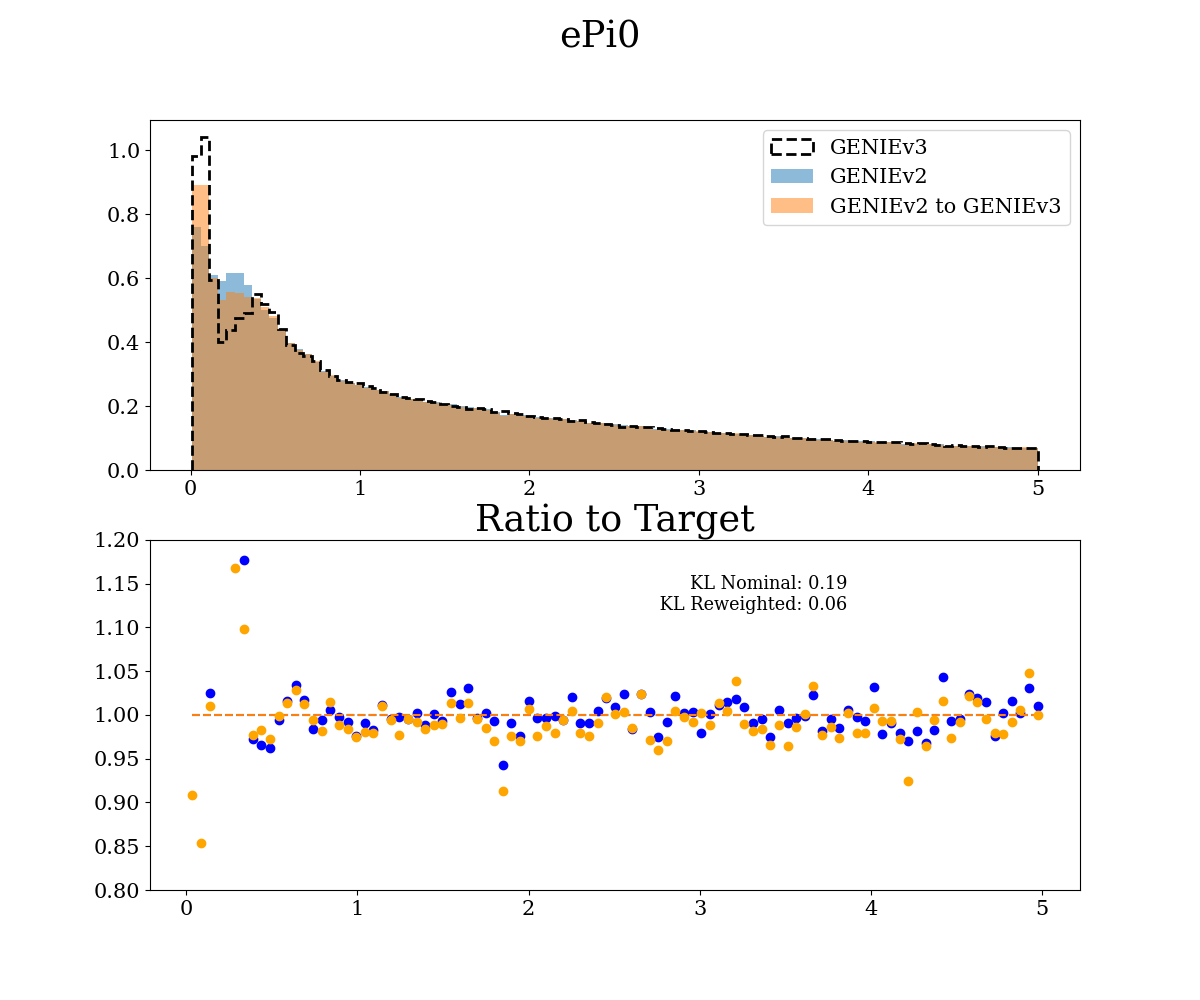
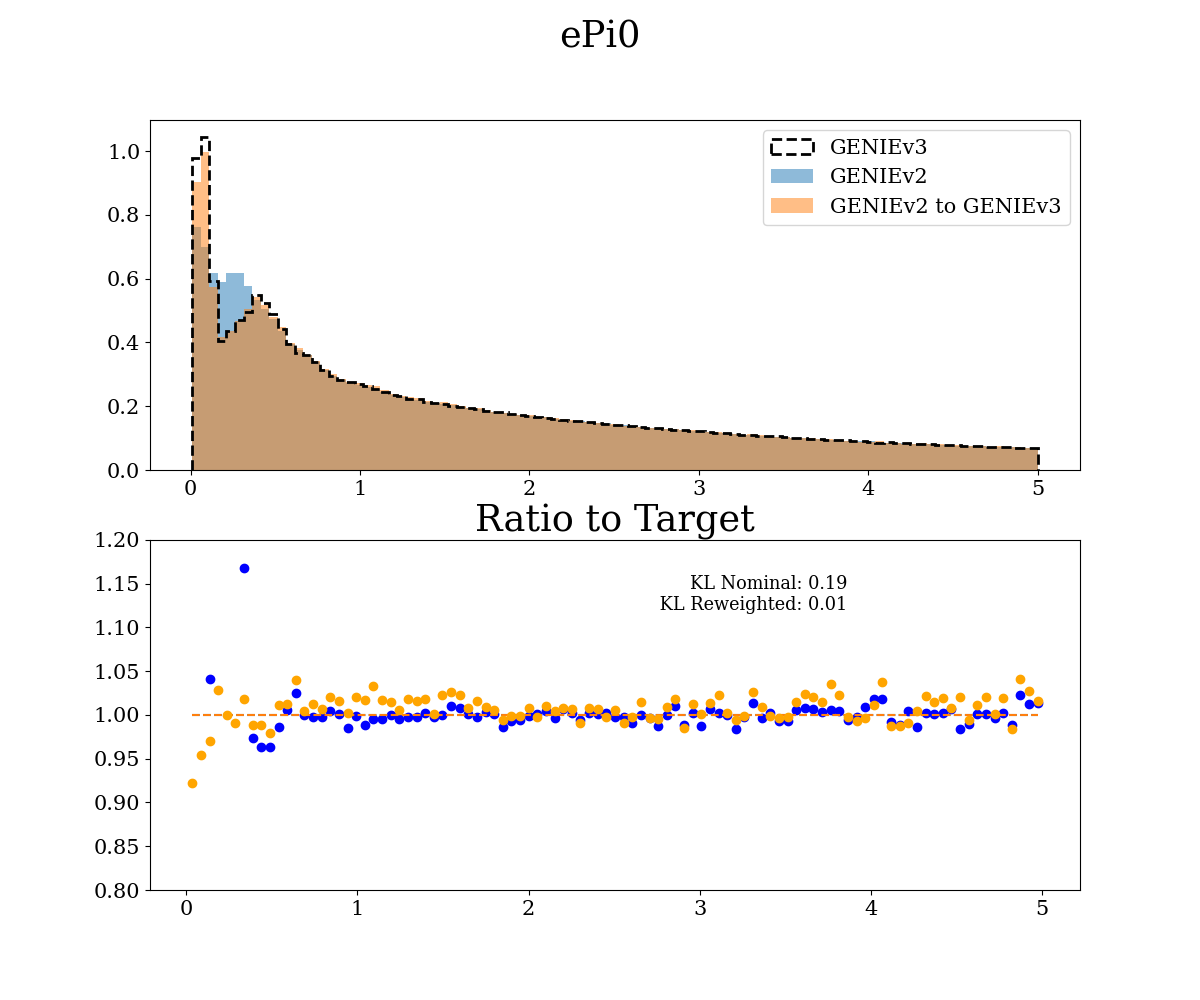
Clipping on weights instead of logits

diff --git a/reweight.py b/reweight.py
@@ -50,9 +50,9 @@ def make_plots(nominal, other, predicted_weights, vars_meta, figsize=None):
             plt.show()
 
 
-def calculate_weights(probas):
-    weights = np.clip(probas, 0, 1000)
-    weights = np.exp(weights)
+def calculate_weights(logits):
+    weights = np.exp(logits)
+    weights = np.clip(weights, 0, 1000)
     weights = np.squeeze(np.nan_to_num(weights))
     return weights
 
